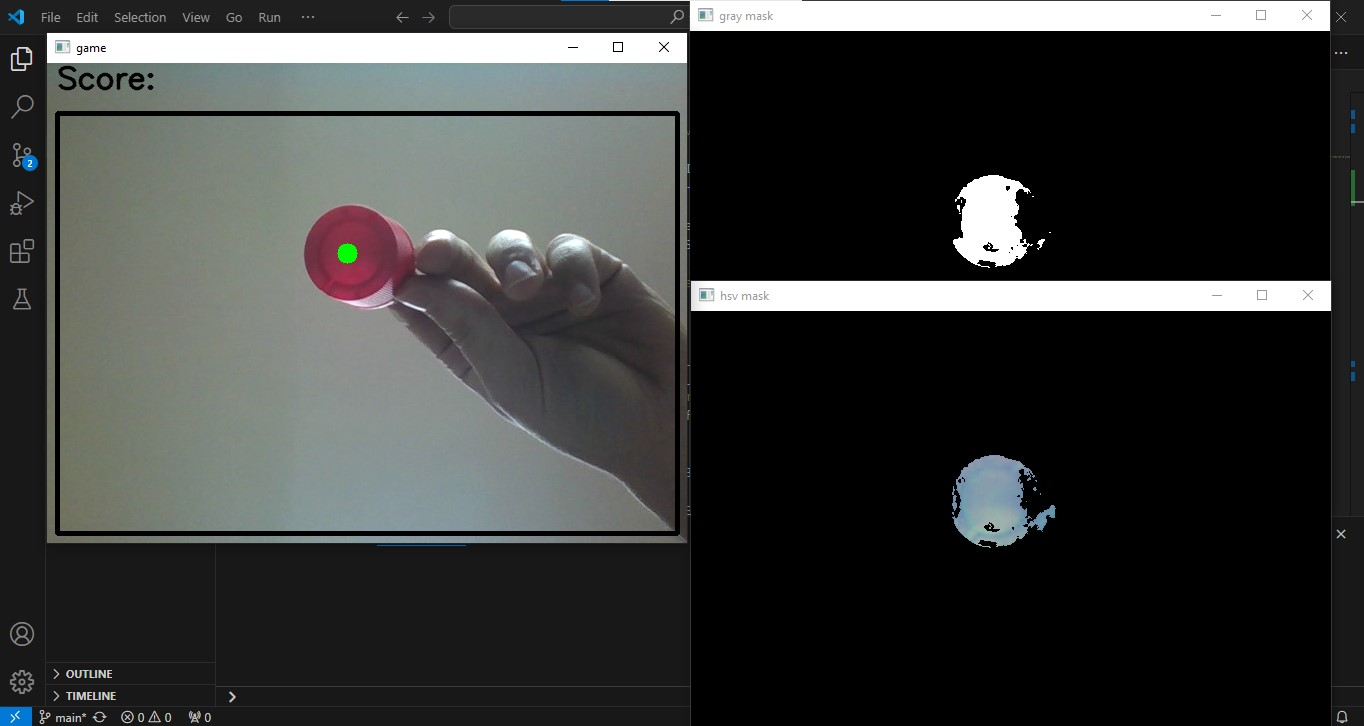
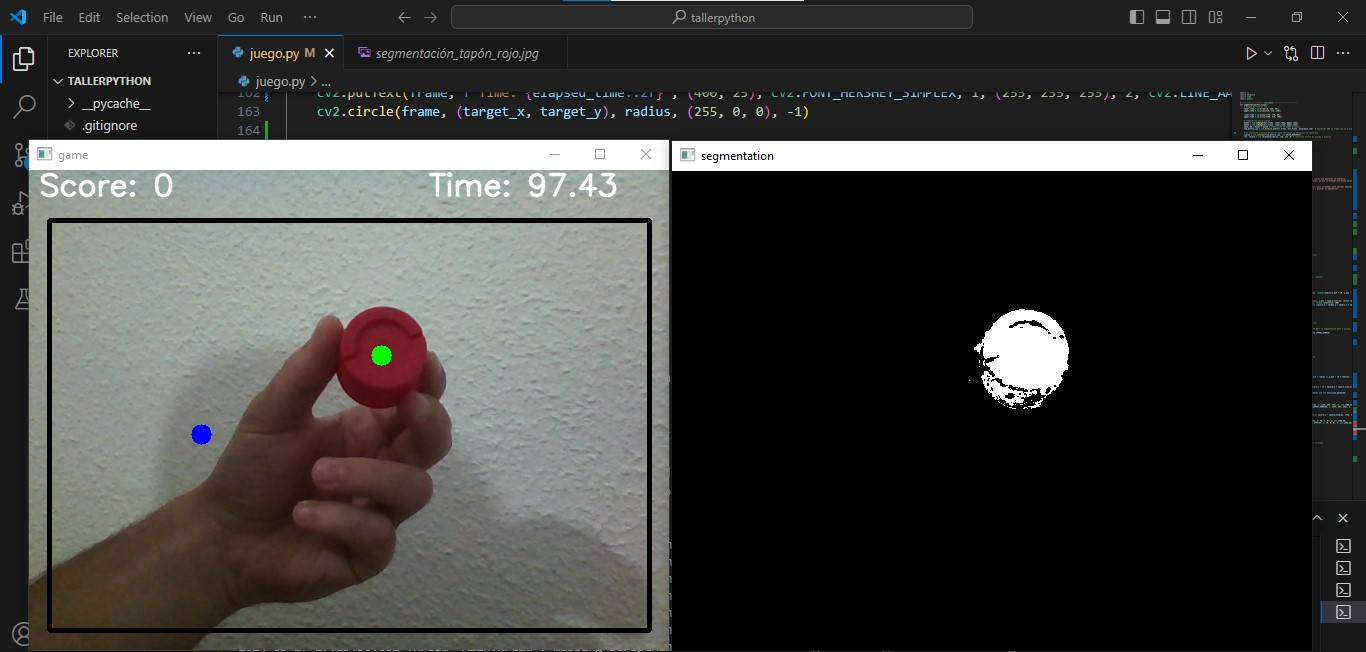
juego y web aceptables

diff --git a/juego.py b/juego.py
@@ -22,11 +22,12 @@ def segmentation(hsv_frame):
     mask_red = mask1 + mask2 # combinación de ambas máscaras 
     red_bottle_cap = cv2.bitwise_and(hsv_frame, hsv_frame, mask=mask_red)  # operación AND al frame con la máscara
 
-    # se convierte a escala de grises para facilitar la detección de contornos
+    # Se convierte a escala de grises para facilitar la detección de contornos
     imgray = cv2.cvtColor(red_bottle_cap, cv2.COLOR_BGR2GRAY)
     ret, thresh = cv2.threshold(imgray, 140, 255, 0) # convierte escala de grises a binario
 
     return red_bottle_cap, thresh
+
 
 def close_streamlit():
         time.sleep(5)
@@ -38,20 +39,39 @@ def close_streamlit():
         p.terminate()
 
 # Configuración inicial Streamlit
-st.title('Juego OpenCV')
-st.write('Autor: Mario Gómez Sánchez-Celemín')
+st.title('Juego de Captura de Objetos')
 
-frame_placeholder=st.empty()
+st.write("""
+**Autor:** Mario Gómez Sánchez-Celemín
 
-stop_button_pressed=st.button("Stop")
-play_again_button_pressed=st.button("Play again")
+**Instrucciones:**
+1. Utiliza un objeto de color rojo como puntero para atrapar los círculos azules que aparecen en pantalla.
+2. Evita los rectángulos blancos que aparecerán a medida que avanza el tiempo, ya que colisionar con ellos terminará el juego.
+
+**Recomendaciones:**
+- Asegúrate de que la cámara no reciba luz directa y de que no haya objetos rojos alrededor para obtener mejores resultados en la detección.
+- Ajusta la posición del puntero para facilitar la captura de los círculos y mejorar tu puntuación.
+
+¡Buena suerte y diviértete jugando!
+""")
+
+frame_placeholder = st.empty()
+
+stop_button_pressed = st.button("Detener")
+play_again_button_pressed = st.button("Jugar de nuevo")
 
 # Variables globales
-score=0
-radius=10
+score = 0
+radius = 10
 collision_detected = True # evento asíncrono
 game_over = False         # evento asíncrono
+start_time = time.time()
+difficult_mode = False
+difficult_mode_time = 50
 
+# Inicializar las coordenadas del cuadrado para el modo difícil
+square_x, square_y = 0, 0
+square_size_x, square_size_y = 0, 0
 
 # ----------------- BUCLE INFINITO ------------------- 
 
@@ -60,35 +80,54 @@ video = cv2.VideoCapture(0)
 
 # Bucle infinito para mostrar y procesar imagenes
 while True:
+
     # Leer el frame actual del video
     ret, frame = video.read()
-    
-    frame=cv2.flip(frame,1) # girar la imagen para evitar el efecto espejo
+    frame = cv2.flip(frame, 1) # girar la imagen para evitar el efecto espejo
 
     # Obtener el ancho y alto del frame capturado
     frame_width = int(video.get(cv2.CAP_PROP_FRAME_WIDTH))
     frame_height = int(video.get(cv2.CAP_PROP_FRAME_HEIGHT))
-    x_min,x_max=20,frame_width-20
-    y_min,y_max=50,frame_height-20
+    x_min, x_max = 20, frame_width - 20
+    y_min, y_max = 50, frame_height - 20
 
     if not game_over: # si se pierde no se ejecuta la lógica del juego
+        # Obtener el tiempo actual y calcular el tiempo transcurrido
+        current_time = time.time()  # Tiempo actual
+        elapsed_time = current_time - start_time  # Tiempo transcurrido en segundos
+        if elapsed_time > difficult_mode_time:
+            difficult_mode = True
+
         # Cambiar target
         if collision_detected:
-            target_x,target_y=random.randint(x_min+10, x_max-10),random.randint(y_min+10, y_max-10)
-            collision_detected=False
+            while True:
+                condition = True
+                target_x, target_y = random.randint(x_min + 10, x_max - 10), random.randint(y_min + 10, y_max - 10)
+                collision_detected = False
+
+                if difficult_mode:
+                    square_x, square_y = random.randint(x_min + square_size_x, x_max - square_size_x), random.randint(y_min + square_size_y, y_max - square_size_y)
+                    square_size_x, square_size_y = random.randint(25, 100), random.randint(25, 100)
+                    if (square_x < target_x < square_x + square_size_x) and (square_y < target_y < square_y + square_size_y):
+                        condition = False
+                else:
+                    break
+
+                if condition:
+                    break
 
         # Procesado de imagen
         # Convertir a formato hsv (recomendado para segmentación por colores)
-        hsv_frame=cv2.cvtColor(frame,cv2.COLOR_BGR2HSV)
+        hsv_frame = cv2.cvtColor(frame, cv2.COLOR_BGR2HSV)
 
-        red_bottle_cap,thresh=segmentation(hsv_frame) # función definida para la segmentación (hsv y grises)
+        red_bottle_cap, thresh = segmentation(hsv_frame) # función definida para la segmentación (hsv y grises)
 
         contours, _ = cv2.findContours(thresh, cv2.RETR_EXTERNAL, cv2.CHAIN_APPROX_SIMPLE)
 
         # Se busca el mayor area entre los contornos detectados 
         if contours:
-            max_area=10
-            best_cnt=contours[0]
+            max_area = 10
+            best_cnt = contours[0]
             for cnt in contours:
                 area = cv2.contourArea(cnt)
                 if area > max_area:
@@ -104,34 +143,41 @@ while True:
                 # Dibujar circulo en el frame original
                 cv2.circle(frame, (cX, cY), radius, (0, 255, 0), -1)
 
-                if(cX-x_min<radius or x_max-cX<radius or cY-y_min<radius or y_max-cY<radius):
-                    game_over=True
+                # Verificar choque con los bordes del frame
+                if (cX - x_min < radius or x_max - cX < radius or cY - y_min < radius or y_max - cY < radius):
+                    game_over = True
+                
+                # Verificar choque con el cuadrado en el modo difícil
+                if difficult_mode:
+                    if (square_x < cX < square_x + square_size_x) and (square_y < cY < square_y + square_size_y):
+                        game_over = True
                 
                 if abs(cX - target_x) < radius and abs(cY - target_y) < radius and not collision_detected:
                     score += 1
-                    collision_detected=True
+                    collision_detected = True
 
     # Dibujar elementos gráficos
-    cv2.rectangle(frame,(x_min,y_min),(x_max,y_max),(0,0,0),4)
-    cv2.putText(frame,f'Score: {score}',(10,25),cv2.FONT_HERSHEY_SIMPLEX,1,(0,0,0),2,cv2.LINE_AA)
-
+    cv2.rectangle(frame, (x_min, y_min), (x_max, y_max), (0, 0, 0), 4)
+    cv2.putText(frame, f'Score: {score}', (10, 25), cv2.FONT_HERSHEY_SIMPLEX, 1, (255, 255, 255), 2, cv2.LINE_AA)
+    cv2.putText(frame, f'Time: {elapsed_time:.2f}', (400, 25), cv2.FONT_HERSHEY_SIMPLEX, 1, (255, 255, 255), 2, cv2.LINE_AA)
     cv2.circle(frame, (target_x, target_y), radius, (255, 0, 0), -1)
     
+    if difficult_mode:
+        cv2.rectangle(frame, (square_x, square_y), (square_x + square_size_x, square_y + square_size_y), (255, 255, 255), -1)
+
     if game_over:
-        cv2.putText(frame,'GAME OVER',(40,240),cv2.FONT_HERSHEY_SIMPLEX,3,(0,0,0),5,cv2.LINE_AA)
-        cv2.putText(frame,'Press a button',(200,270),cv2.FONT_HERSHEY_SIMPLEX,1,(0,0,0),2,cv2.LINE_AA)
+        cv2.putText(frame, 'GAME OVER', (40, 240), cv2.FONT_HERSHEY_SIMPLEX, 3, (0, 0, 0), 5, cv2.LINE_AA)
+        cv2.putText(frame, 'Press a button', (200, 270), cv2.FONT_HERSHEY_SIMPLEX, 1, (0, 0, 0), 2, cv2.LINE_AA)
 
     # Mostrar los frames
-    # cv2.imshow('mask', thresh)
-    # cv2.imshow('hsv mask', red_bottle_cap)
     cv2.imshow('game', frame)
-
+    cv2.imshow('segmentation',thresh)
     frame_placeholder.image(frame, channels="RGB")
 
-
     if cv2.waitKey(1) & 0xFF == ord('r') or play_again_button_pressed:
-        game_over=False
-        score=0
+        game_over = False
+        score = 0
+        start_time = time.time()  # Reiniciar el tiempo cuando se reinicia el juego
 
     # Presionar 'q' para salir del bucle o botón de detener
     if cv2.waitKey(1) & 0xFF == ord('q') or stop_button_pressed:
